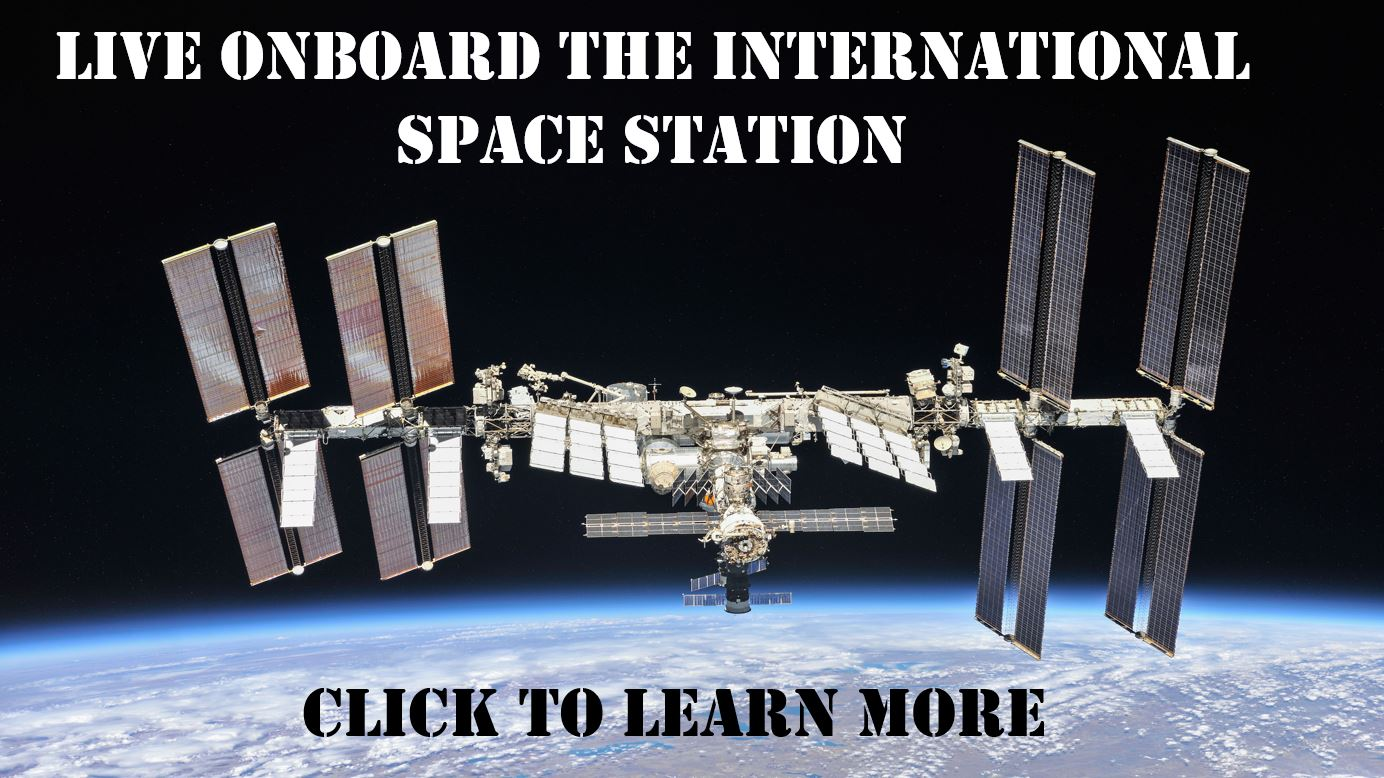
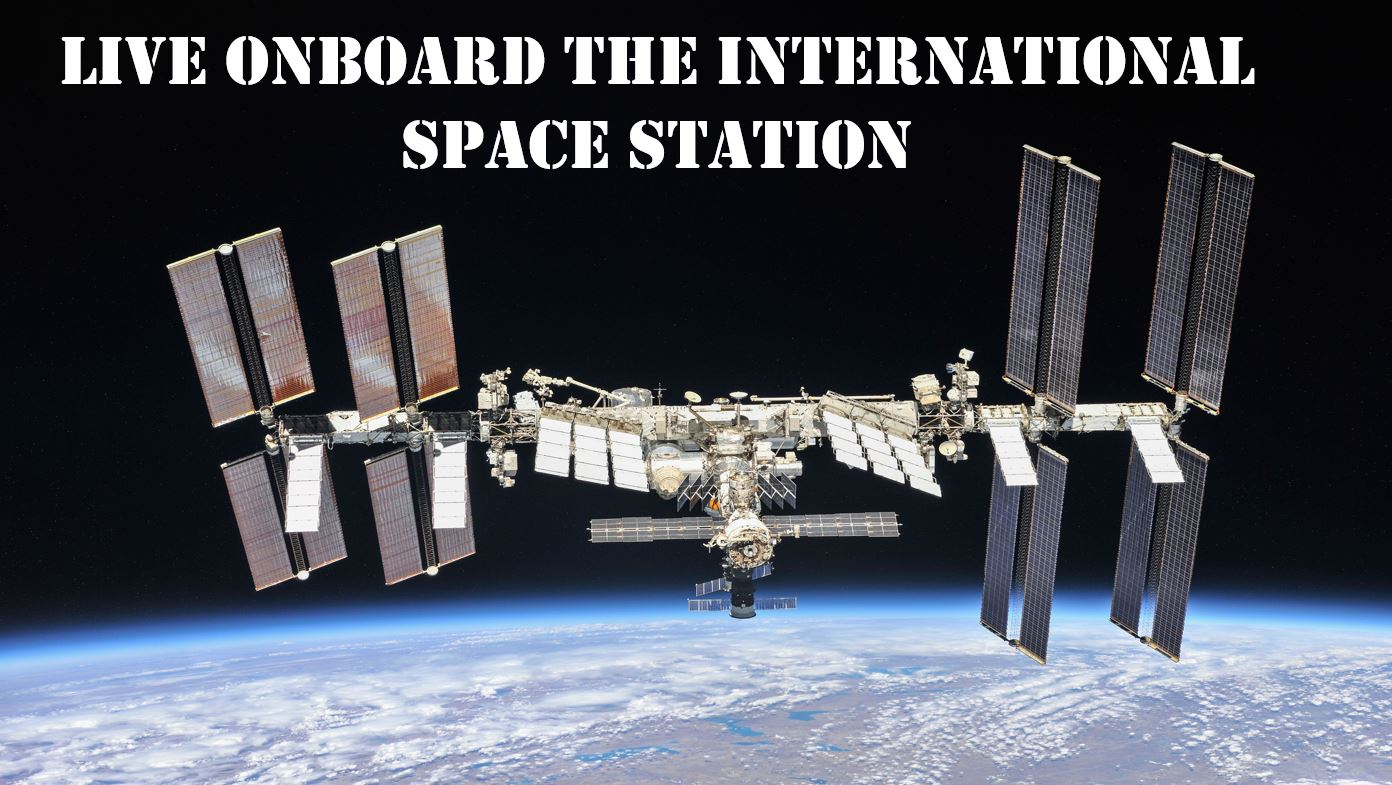
add btns to home

Changed region(s): [[0.0, 0.1542, 1.0, 1.0], [0.0311, 0.0308, 0.901, 0.2159]]

diff --git a/src/app/pages/home/home/home.component.html b/src/app/pages/home/home/home.component.html
@@ -1,7 +1,7 @@
 
 <!-- HERO -->
 
-<div id="carouselExampleIndicators" class="carousel slide" data-bs-ride="carousel" data-bs-interval="8000">
+<div id="carouselExampleIndicators" class="carousel slide" data-bs-ride="carousel" data-bs-interval="6000" style="background-color: rgb(210, 210, 210);">
     <div class="carousel-indicators">
       <button type="button" data-bs-target="#carouselExampleIndicators" data-bs-slide-to="0" class="active" aria-current="true" aria-label="Slide 1"></button>
       <button type="button" data-bs-target="#carouselExampleIndicators" data-bs-slide-to="1" aria-label="Slide 2"></button>
@@ -10,12 +10,15 @@
     <div class="carousel-inner">
       <div class="carousel-item active">
         <img src="assets/img/expandUniverse.JPG" class="d-block w-100" style="height: 800px;" alt="...">
+        <button type="button" class="btn btn-warning" style="margin-left: 45%; margin-top: -55%; font-size: 20px;" (click)="redirect('/posters')">Click Here To Learn More</button>
       </div>
       <div class="carousel-item">
         <img src="assets/img/saturn.JPG" class="d-block w-100" style="height: 800px;" alt="...">
+        <button type="button" class="btn btn-warning" style="margin-left: 28%; margin-top: -4%; font-size: 20px;" (click)="redirect('/telescopes')">Click Here To Learn More</button>
       </div>
       <div class="carousel-item">
         <img src="assets/img/iss.JPG" class="d-block w-100" style="height: 800px;" alt="...">
+        <button type="button" class="btn btn-warning" style="margin-left: 45%; margin-top: -10%; font-size: 20px;" (click)="redirect('/trips')">Click Here To Learn More</button>
       </div>
     </div>
 </div>
@@ -59,6 +62,9 @@
     <div class="col-6 d-flex justify-content-center">
         <div>
             <img src="assets/img/products.JPG" alt="">
+            <button type="button" class="btn btn-warning" style="margin-left: 20%;" (click)="redirect('/tshirts')">Click Here For More T-Shirts</button>
+            <button type="button" class="btn btn-warning" style="margin-left: 36%;" (click)="redirect('/books')">Click Here For More Hats</button>
+            <button type="button" class="btn btn-warning" style="margin-left: 72%; margin-top: -53%;" (click)="redirect('hats')">Click Here For More Books</button>
         </div>
     </div>
 </div>

diff --git a/src/app/pages/home/home/home.component.ts b/src/app/pages/home/home/home.component.ts
@@ -1,5 +1,6 @@
 import { Component } from '@angular/core';
 import { DomSanitizer, SafeHtml } from '@angular/platform-browser';
+import { Router } from '@angular/router';
 import { Depoimentos } from 'src/app/Data/Depoimentos';
 import { Depoimento } from 'src/app/models/Depoimento';
 
@@ -20,7 +21,7 @@ export class HomeComponent {
     "assets/img/stars.jpg"
   ];
 
-  constructor(private _depoimentos : Depoimentos, private sanitizer: DomSanitizer){
+  constructor(private _depoimentos : Depoimentos, private sanitizer: DomSanitizer, private router: Router){
     this.depoimentosArray = _depoimentos.depoimentosArray;
     this.chunkedDepoimentosArray = this.chunkArray(this.depoimentosArray, 4);
   }
@@ -51,7 +52,8 @@ export class HomeComponent {
     }
     return this.sanitizer.bypassSecurityTrustHtml(stars);
   }
-  
-  
 
+  redirect(link : string){
+    this.router.navigateByUrl(link);
+  }
 }
